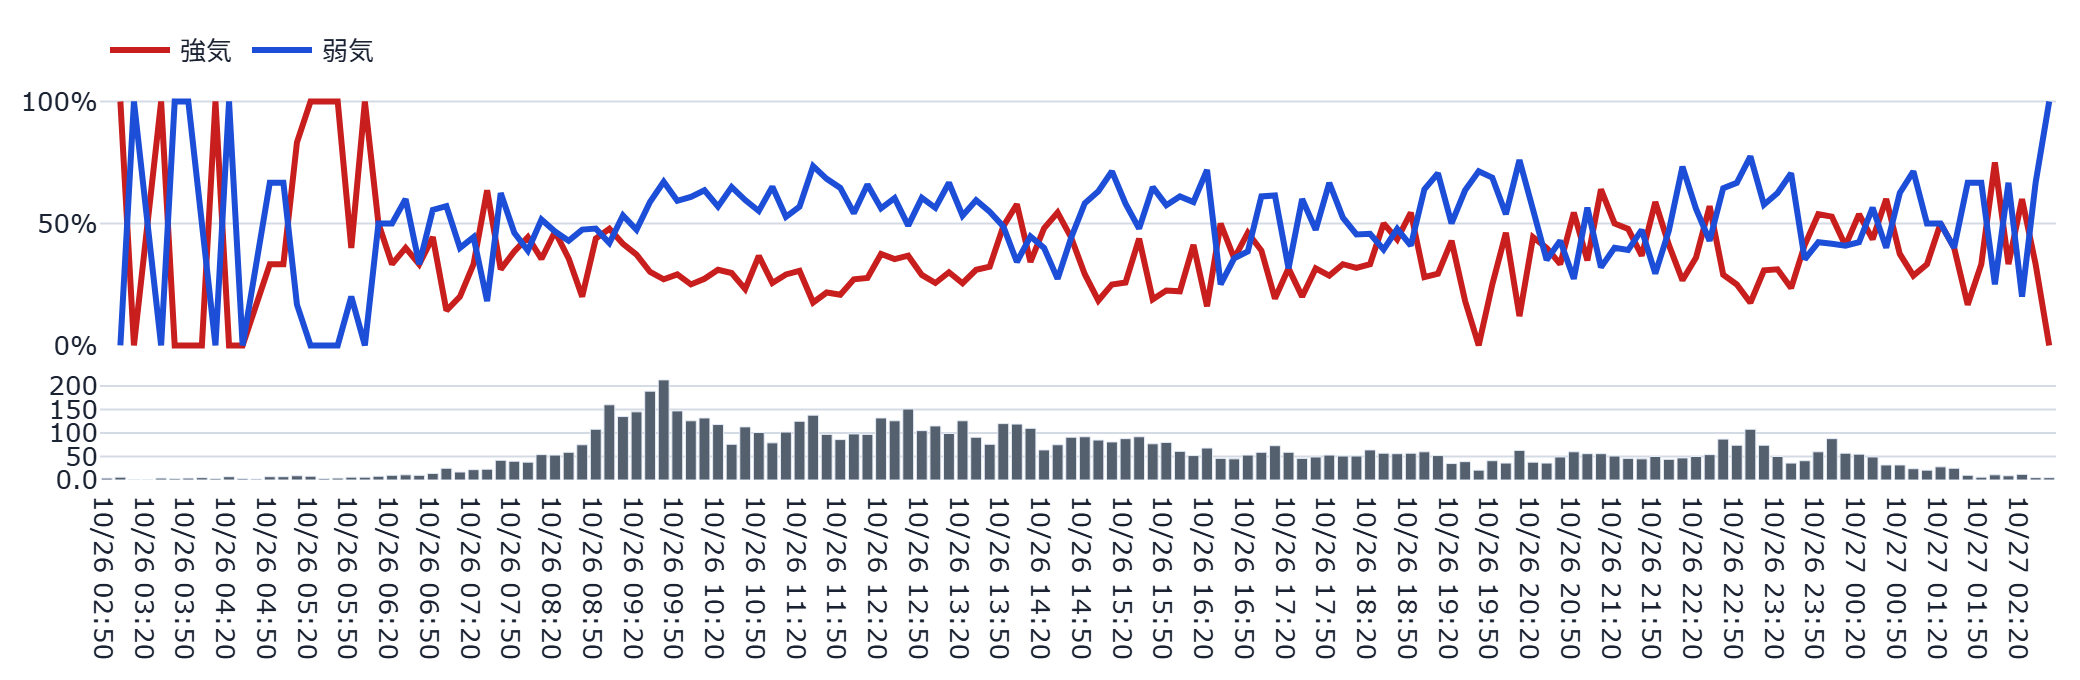
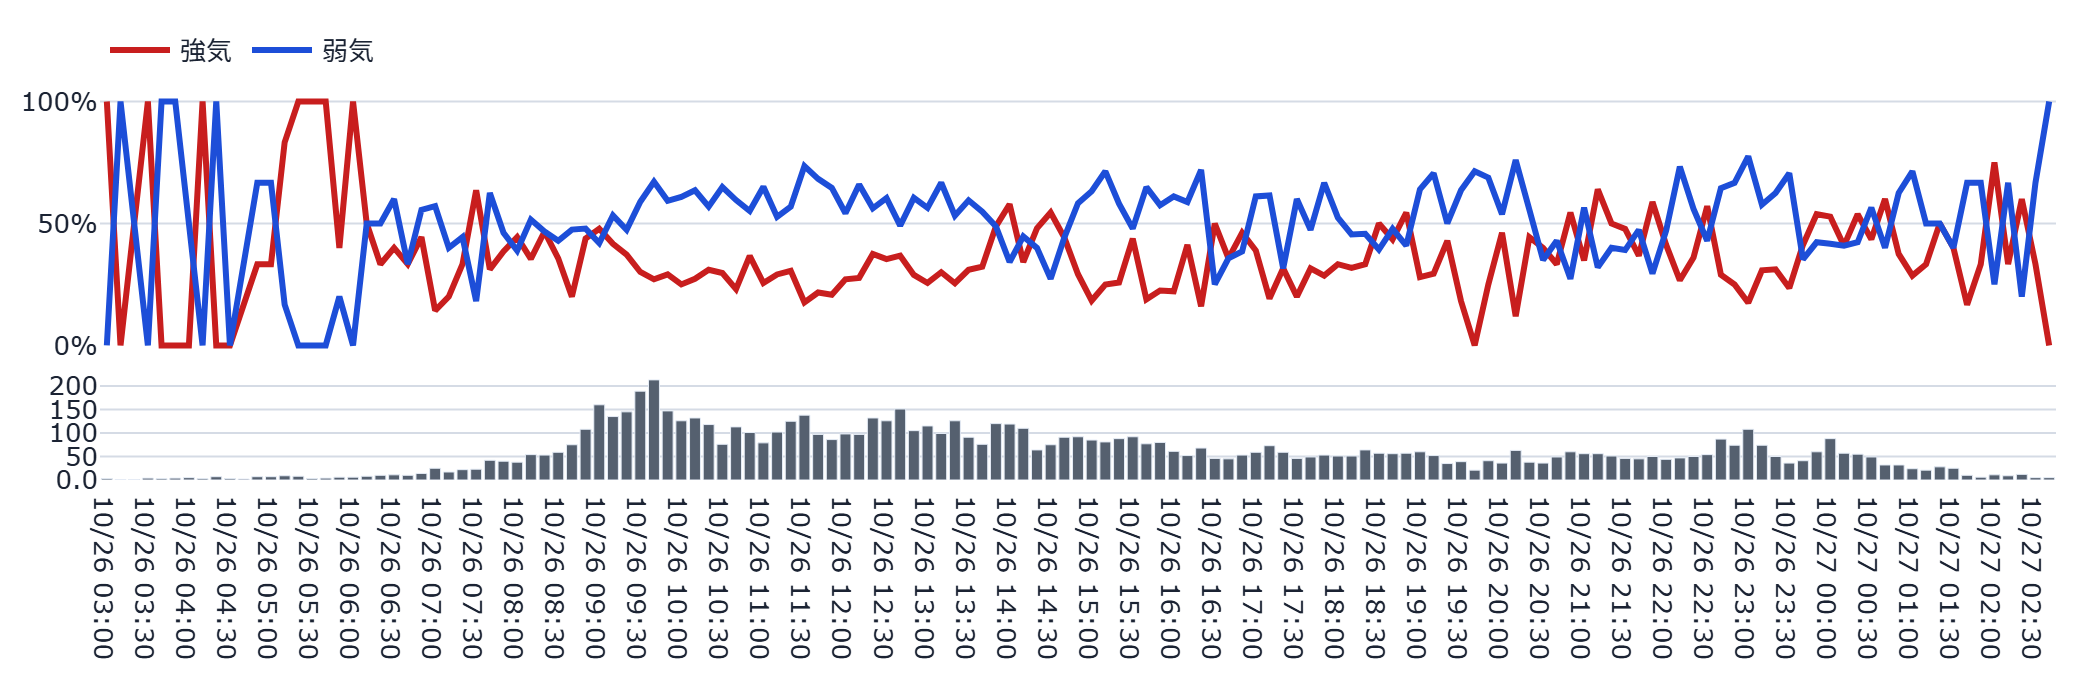
auto: refresh static dashboard (2026-10-27 03:05:56 JST)

Changed region(s): [[0.0625, 0.5559, 1.0, 0.9882], [0.0312, 0.1235, 0.9688, 0.525]]

diff --git a/docs/index.html b/docs/index.html
@@ -144,7 +144,7 @@
         <span class="price">12,550円</span>
         <span class="chg" style="color:#8B94A3">—</span>
       </div>
-      <p class="caption">更新時刻: 2026-10-27T02:51:46（データは1分間隔で自動生成され、このページも
+      <p class="caption">更新時刻: 2026-10-27T03:01:02（データは1分間隔で自動生成され、このページも
       60秒毎に自動再読み込みされます）</p>
       
       <p id='visit-count-badge' class='caption'>👀 累計閲覧数: 11,074</p>
@@ -155,9 +155,9 @@
            常時最上部に表示する。 -->
       <h2>🤖 AI考察</h2>
       <div class='panel' id='ai-schedule'><h3>🗓 AI考察の予定</h3><ul><li>平日の立会日に、寄り前 08:50／寄り直後 09:10／前場引け前 11:30／大引け後 15:45 の4時点で考察を更新します（考察はClaude(AI)が書きます）。</li><li>土日祝などの休場日は考察を書きません。</li><li>時点の間は、数値のみを約10分ごとに更新します（文章は次の時点まで更新されません）。</li><li>次の予定: 10-27 08:50（寄り前）／直近の更新: 10-20 15:33（自動生成）</li></ul></div>
-      <div class='panel' id='numeric-summary'><h3>📊 数値要約｜02:51 更新</h3><ul><li>株価: 12,550円</li><li>掲示板: 強気 46.6%／弱気 47.2%／中立 6.2%・投稿 469件（約156件/時）</li><li>シグナル: 発火＝ネームド集中(0.16)・話題枯れ(-1.6)／警戒＝灼熱メーター(過熱)(31.1)・イナゴ語彙(euphoria)(4.3)／平常＝そう思う大量票(23)・他銘柄混入率(0.07)・暴落煽り語彙(1.9)・阿鼻叫喚(セリクラ)(0)ほか</li><li>変化点: 前回の数値要約から大きな変化なし</li></ul><p class='caption'>強気・弱気は機械判定（辞書＋軽量モデル）の値です。日単位の向きはLM判定と近く（相関0.8台）、時間単位は粗い点に注意してください。</p></div>
+      <div class='panel' id='numeric-summary'><h3>📊 数値要約｜03:01 更新</h3><ul><li>株価: 12,550円</li><li>掲示板: 強気 46.6%／弱気 47.2%／中立 6.2%・投稿 469件（約156件/時）</li><li>シグナル: 発火＝ネームド集中(0.16)・話題枯れ(-1.6)／警戒＝灼熱メーター(過熱)(31.1)・イナゴ語彙(euphoria)(4.3)／平常＝そう思う大量票(23)・他銘柄混入率(0.07)・暴落煽り語彙(1.9)・阿鼻叫喚(セリクラ)(0)ほか</li><li>変化点: 前回の数値要約から大きな変化なし</li></ul><p class='caption'>強気・弱気は機械判定（辞書＋軽量モデル）の値です。日単位の向きはLM判定と近く（相関0.8台）、時間単位は粗い点に注意してください。</p></div>
       
-      <div class='metric-row'><div class='metric-card'><div class='metric-label'>株価</div><div class='metric-value'>12,550円</div><div class='metric-delta'>+0円</div></div><div class='metric-card'><div class='metric-label'>強気比率</div><div class='metric-value'>46.6%</div><div class='metric-delta'>-0.6pt</div></div><div class='metric-card'><div class='metric-label'>弱気比率</div><div class='metric-value'>47.2%</div><div class='metric-delta'>+0.6pt</div></div></div><p class='caption'>前回集計(2026-10-27T02:41:33)との比較</p>
+      <div class='metric-row'><div class='metric-card'><div class='metric-label'>株価</div><div class='metric-value'>12,550円</div><div class='metric-delta'>+0円</div></div><div class='metric-card'><div class='metric-label'>強気比率</div><div class='metric-value'>46.6%</div><div class='metric-delta'>+0.0pt</div></div><div class='metric-card'><div class='metric-label'>弱気比率</div><div class='metric-value'>47.2%</div><div class='metric-delta'>+0.0pt</div></div></div><p class='caption'>前回集計(2026-10-27T02:51:46)との比較</p>
       <div class='ai-box'>※無料公開データを機械的に集計した観測情報であり、投資助言・売買推奨ではありません。（10-20 大引け後・本日の取引終了後の整理です）<br>
 <br>
 ■ 本日の終値：15:30の板寄せで13,140円、前営業日終値比で約-3.4%<br>
@@ -205,7 +205,7 @@
             <h3>ボラ・レジーム帯</h3>
             <figure><img src='images/regime_band.png' alt='ボラ・レジーム帯' loading='lazy'></figure>
             <p class='caption'>現在レジーム: 較正中　(BVP=0.354)</p>
-            <div class='metric-row'><div class='metric-card'><div class='metric-label'>PTS（10/27 00:37）</div><div class='metric-value'>12,930円</div><div class='metric-delta' style='color:#C81E1E'>+3.03%</div></div><div class='metric-card'><div class='metric-label'>米国ADR（10/27 02:54）</div><div class='metric-value'>12,878円</div><div class='metric-delta' style='color:#C81E1E'>+2.61%</div></div><div class='metric-card'><div class='metric-label'>DEX（10/27 02:50）</div><div class='metric-value'>12,883円</div><div class='metric-delta' style='color:#C81E1E'>+2.65%</div></div></div><p class='caption'>PTS=東証取引時間外の私設取引システム／ADR=米国預託証券／DEX=分散型取引所(Hyperliquid)の24時間取引・円換算(東証終値比)。翌営業日の値動きの参考情報です(それ自体が売買シグナルではありません)。</p>
+            <div class='metric-row'><div class='metric-card'><div class='metric-label'>PTS（10/27 00:37）</div><div class='metric-value'>12,930円</div><div class='metric-delta' style='color:#C81E1E'>+3.03%</div></div><div class='metric-card'><div class='metric-label'>米国ADR（10/27 03:05）</div><div class='metric-value'>12,941円</div><div class='metric-delta' style='color:#C81E1E'>+3.12%</div></div><div class='metric-card'><div class='metric-label'>DEX（10/27 03:00）</div><div class='metric-value'>12,976円</div><div class='metric-delta' style='color:#C81E1E'>+3.39%</div></div></div><p class='caption'>PTS=東証取引時間外の私設取引システム／ADR=米国預託証券／DEX=分散型取引所(Hyperliquid)の24時間取引・円換算(東証終値比)。翌営業日の値動きの参考情報です(それ自体が売買シグナルではありません)。</p>
           </div>
         </div>
 
@@ -289,7 +289,7 @@
 
       <hr style="border:none;border-top:1px solid var(--border);margin:2rem 0 1rem">
       <p class="caption">⚠ 本情報は掲示板投稿を統計的に集計したものであり、投資助言ではありません。個別の投稿内容は含まれていません。研究・エンタメ用途です。</p>
-      <footer>生成: generate_static_dashboard.py（2026-10-27T02:55:52） /
+      <footer>生成: generate_static_dashboard.py（2026-10-27T03:05:51） /
       画像バックエンド: plotly+kaleido</footer>
     </div>
     <script>(function(){var url="https://script.google.com/macros/s/AKfycbwgSSGQ2n56ohmIYKlNDA1Xe3D8hd3GJbD0U90L4DGtXdb8pqrPokNMHJWjvN1__7bE/exec";var KEY='bbs_visit_counted';var already=sessionStorage.getItem(KEY);var action=already?'read':'hit';var ctrl=(typeof AbortController!=='undefined')?new AbortController():null;var timer=ctrl?setTimeout(function(){ctrl.abort();},5000):null;fetch(url+'?action='+action,{signal:ctrl?ctrl.signal:undefined}).then(function(r){if(timer)clearTimeout(timer);return r.json();}).then(function(data){if(!already)sessionStorage.setItem(KEY,'1');if(data&&typeof data.count==='number'){var el=document.getElementById('visit-count-badge');if(el){el.textContent='\u{1F440} \u7d2f\u8a08\u95b2\u89a7\u6570: '+data.count.toLocaleString();el.style.display='';}}}).catch(function(e){if(timer)clearTimeout(timer);console.warn('visit counter fetch failed (fail-soft):',e);});})();</script><script>(function(){var url="https://script.google.com/macros/s/AKfycbwgSSGQ2n56ohmIYKlNDA1Xe3D8hd3GJbD0U90L4DGtXdb8pqrPokNMHJWjvN1__7bE/exec";var KEY='bbs_liked';var btn=document.getElementById('like-button');var label=document.getElementById('like-count-label');if(!btn||!label)return;function renderLiked(count){btn.disabled=true;btn.style.cursor='default';btn.style.opacity='0.6';btn.textContent='\u2705';label.textContent="\u3044\u3044\u306d\u3057\u307e\u3057\u305f\uff01"+(typeof count==='number'?"\uff08\u7d2f\u8a08 "+count.toLocaleString()+" \u3044\u3044\u306d\uff09":'');}if(localStorage.getItem(KEY)){renderLiked(null);}btn.addEventListener('click',function(){if(localStorage.getItem(KEY))return;btn.disabled=true;var ctrl=(typeof AbortController!=='undefined')?new AbortController():null;var timer=ctrl?setTimeout(function(){ctrl.abort();},5000):null;fetch(url+'?action=like_hit',{signal:ctrl?ctrl.signal:undefined}).then(function(r){if(timer)clearTimeout(timer);return r.json();}).then(function(data){localStorage.setItem(KEY,'1');renderLiked(data&&typeof data.count==='number'?data.count:null);}).catch(function(e){if(timer)clearTimeout(timer);btn.disabled=false;console.warn('like button fetch failed (fail-soft):',e);});});})();</script><script>(function(){var DEFAULT_TAB='overview';function activate(tabName){var buttons=document.querySelectorAll('.tab-bar .tab-btn');var panels=document.querySelectorAll('[data-tab-panel]');if(!buttons.length||!panels.length)return;var matched=false;panels.forEach(function(p){var on=p.getAttribute('data-tab-panel')===tabName;if(on)matched=true;p.classList.toggle('tab-hidden',!on);});if(!matched){panels.forEach(function(p){p.classList.toggle('tab-hidden',p.getAttribute('data-tab-panel')!==DEFAULT_TAB);});tabName=DEFAULT_TAB;}buttons.forEach(function(b){var on=b.getAttribute('data-tab')===tabName;b.classList.toggle('active',on);b.setAttribute('aria-selected',on?'true':'false');});}document.addEventListener('DOMContentLoaded',function(){var bar=document.getElementById('tabBar');if(!bar)return;bar.addEventListener('click',function(e){var btn=e.target.closest('.tab-btn');if(!btn)return;activate(btn.getAttribute('data-tab'));});activate(DEFAULT_TAB);});})();</script></body></html>
